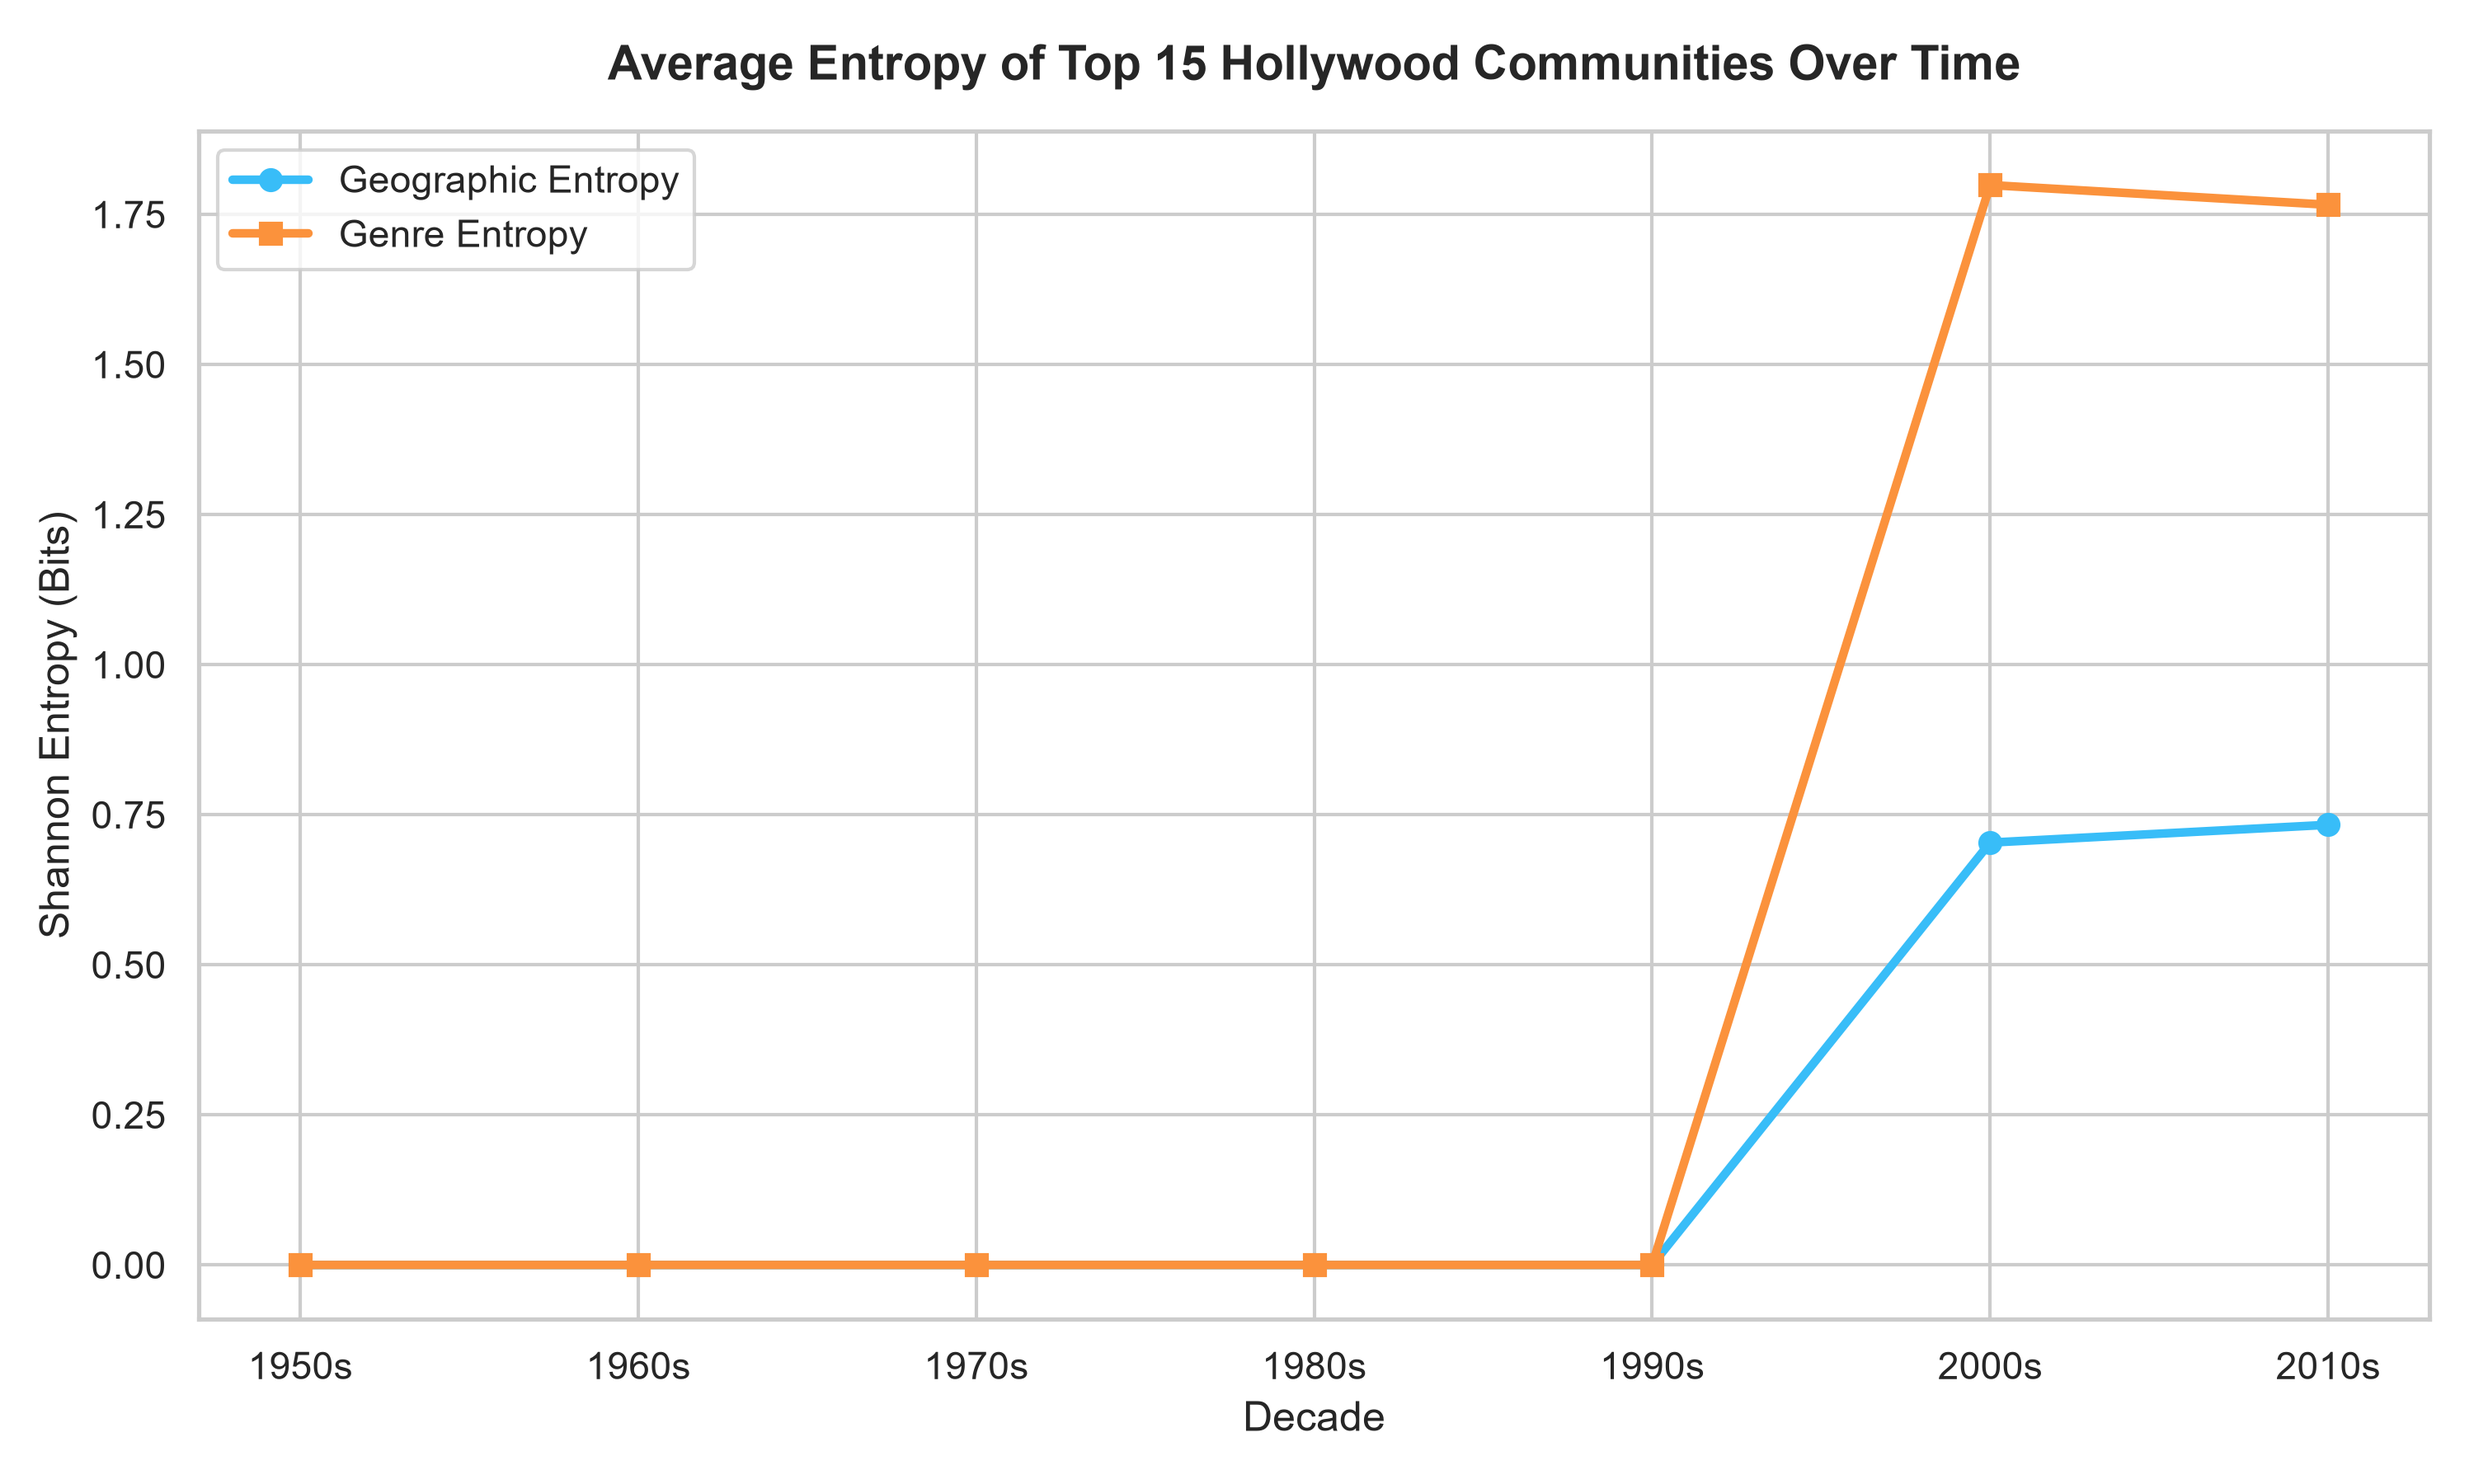
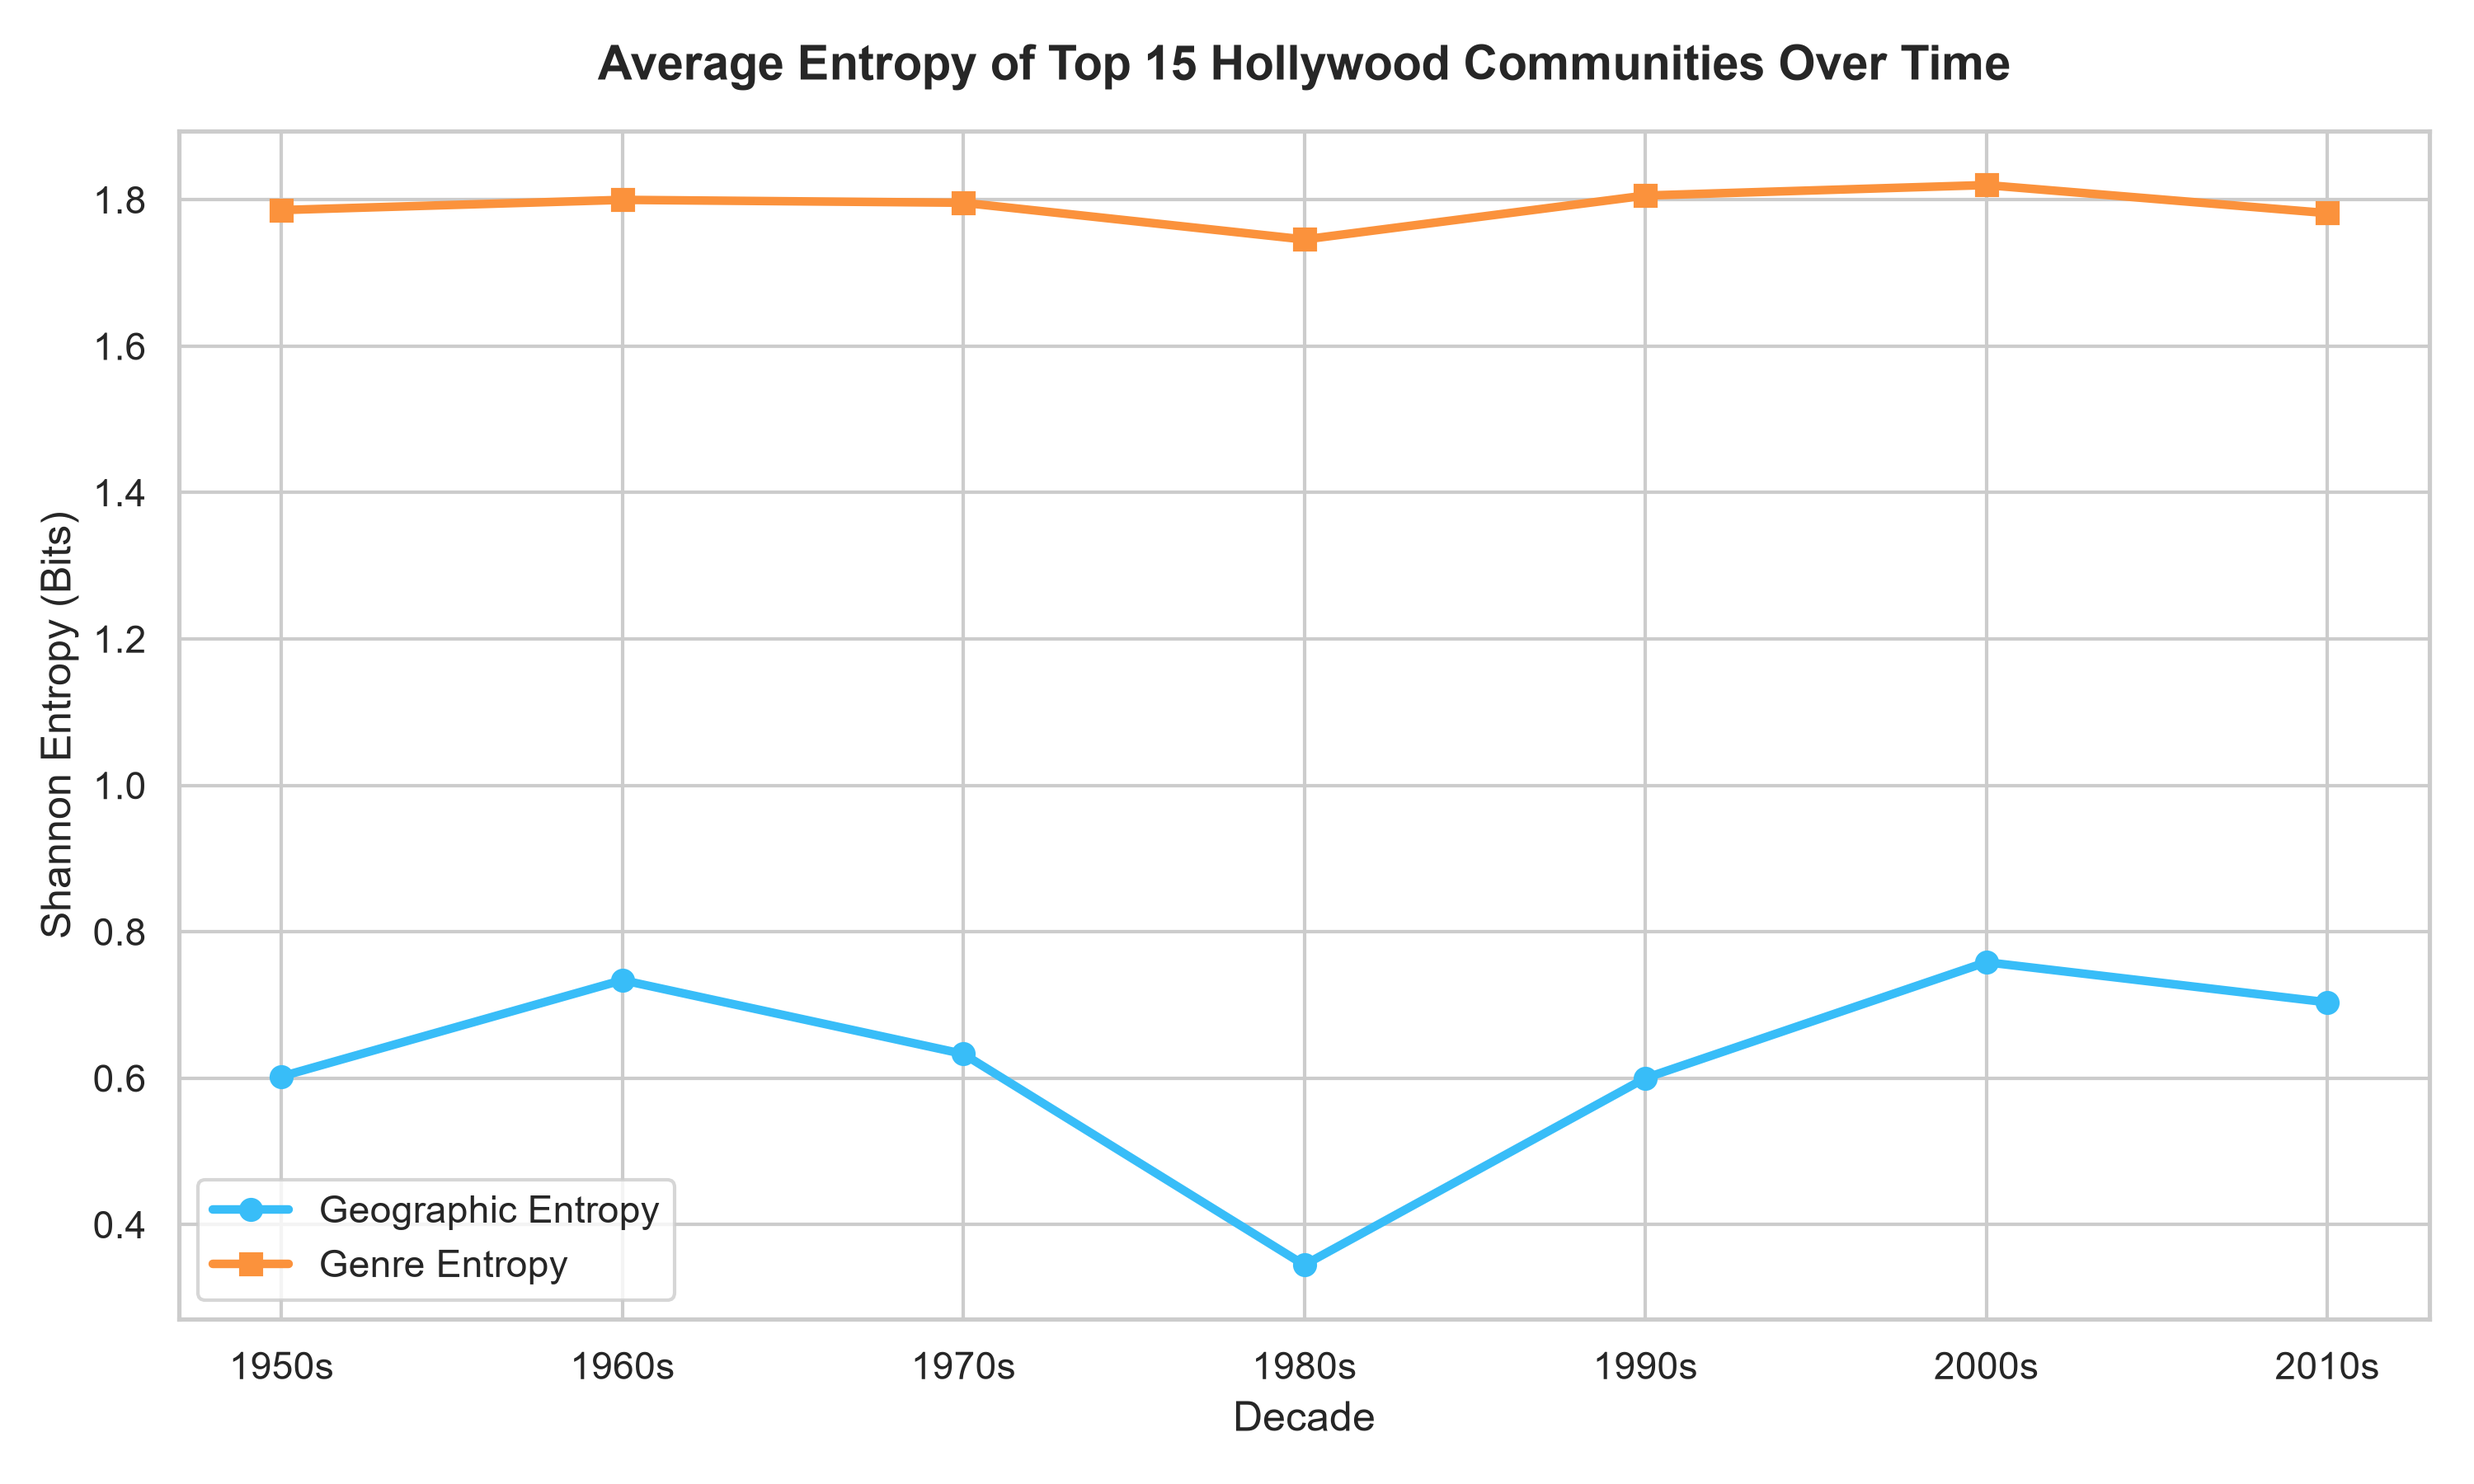
feat: Render full 1950-2020 multi-decade community entropy and update charts
- Generated complete entropy graph across all 7 decades (1950s through 2010s).
- Updated popular actors timeline and median comparison visual charts.
- Cleaned up debug logging.

diff --git a/final_submission/community_clustering.py b/final_submission/community_clustering.py
@@ -252,12 +252,10 @@ class CommunityClusterer:
             null_values=['\\N']
         )
         
-        print(f"[DEBUG] startYear min: {df_edges['startYear'].min()}, max: {df_edges['startYear'].max()}, nulls: {df_edges['startYear'].null_count()}")
         filtered = df_edges.filter(
             (pl.col('startYear') <= created_before) &
             (pl.col('weight') >= min_weight)
         )
-        print(f"[DEBUG] df_edges total: {len(df_edges):,}, filtered <= {created_before}: {len(filtered):,}")
         
         # Dual-way filtering: Check active after year
         if active_after > 1800:
